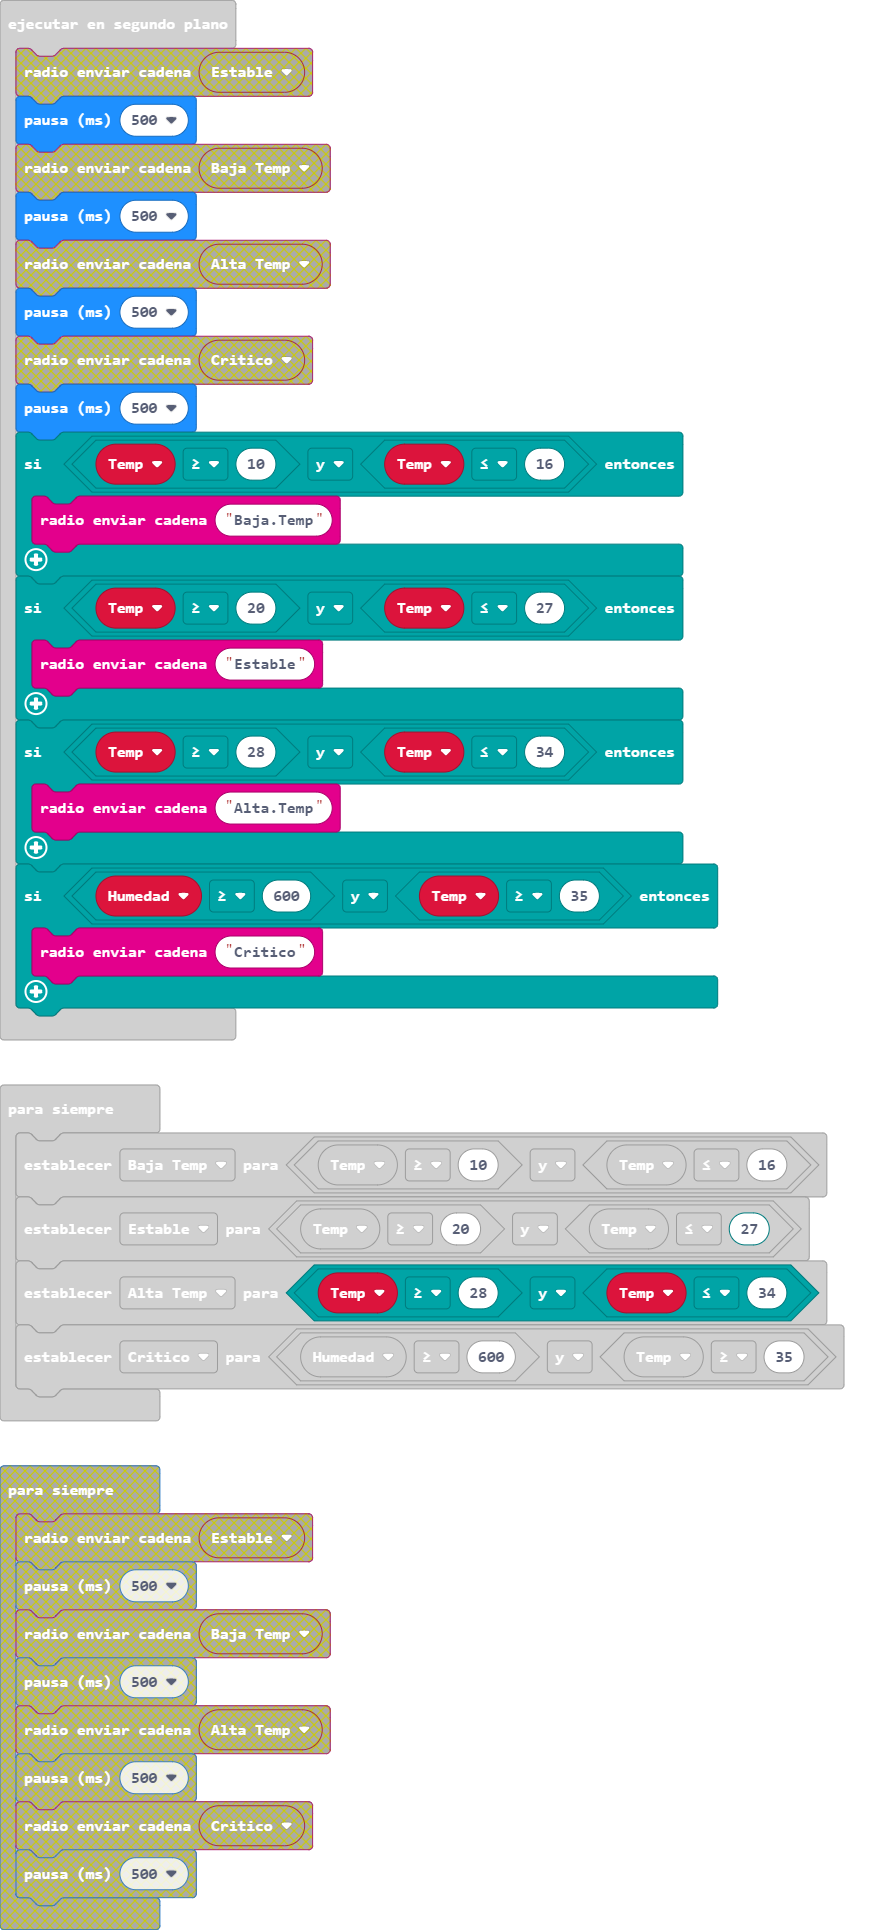
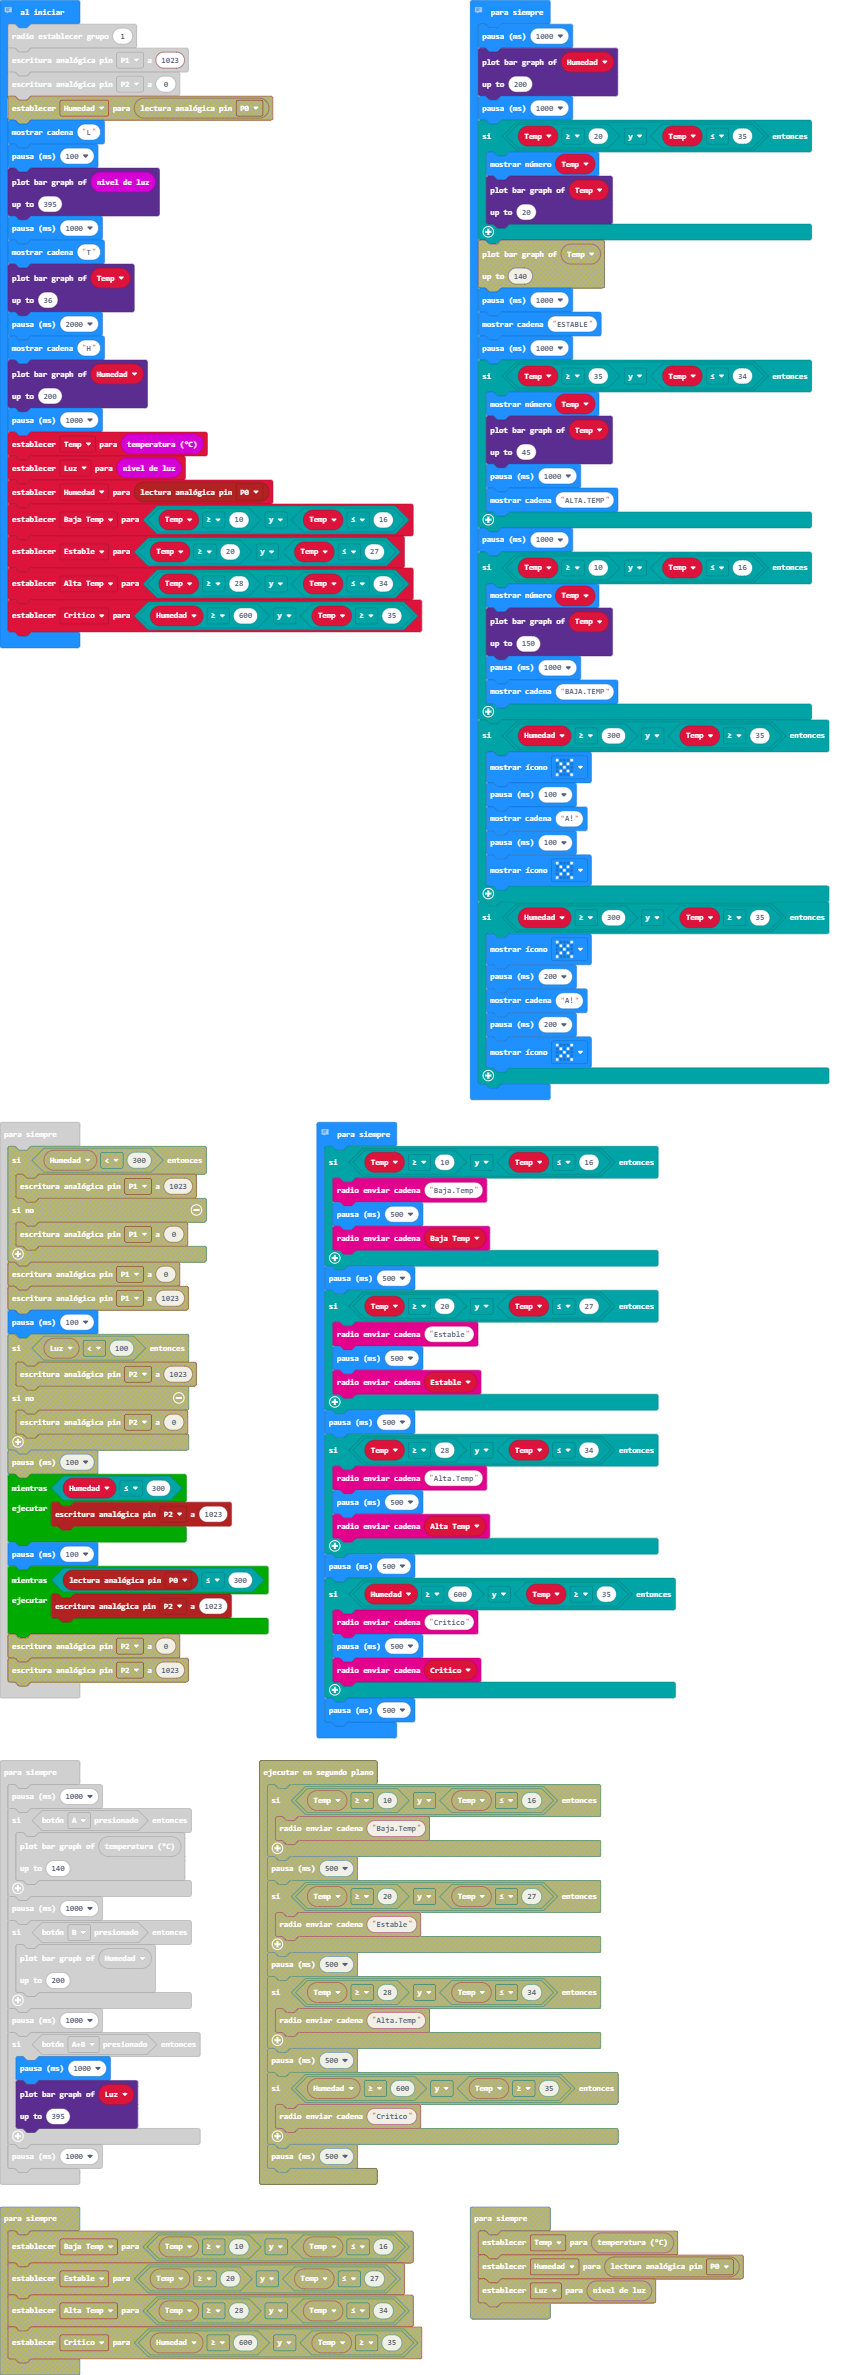
Actualizar main.blocks, main.ts

diff --git a/main.ts b/main.ts
@@ -1,24 +1,27 @@
-let Luz = 0
-let Critico = false
-let Alta_Temp = false
-let Estable = false
-let Baja_Temp = false
-let Temp = 0
+// Inicio
+// 
+// 
 radio.setGroup(1)
-pins.analogWritePin(AnalogPin.P1, 0)
+pins.analogWritePin(AnalogPin.P1, 1023)
 pins.analogWritePin(AnalogPin.P2, 0)
+let Temp = input.temperature()
+let Luz = input.lightLevel()
 let Humedad = pins.analogReadPin(AnalogPin.P0)
+let Baja_Temp = Temp >= 10 && Temp <= 16
+let Estable = Temp >= 20 && Temp <= 27
+let Alta_Temp = Temp >= 28 && Temp <= 34
+let Critico = Humedad >= 600 && Temp >= 35
 basic.showString("L")
 basic.pause(100)
 led.plotBarGraph(
 input.lightLevel(),
 395
 )
-basic.pause(5000)
+basic.pause(1000)
 basic.showString("T")
 led.plotBarGraph(
 Temp,
-40
+36
 )
 basic.pause(2000)
 basic.showString("H")
@@ -26,24 +29,28 @@ led.plotBarGraph(
 Humedad,
 200
 )
-basic.pause(5000)
+basic.pause(1000)
+// Controles
+// 
 basic.forever(function () {
-    Baja_Temp = Temp >= 10 && Temp <= 16
-    Estable = Temp >= 20 && Temp <= 27
-    Alta_Temp = Temp >= 28 && Temp <= 34
-    Critico = Humedad >= 600 && Temp >= 35
-})
-basic.forever(function () {
+    basic.pause(1000)
+    led.plotBarGraph(
+    Humedad,
+    200
+    )
+    basic.pause(1000)
     if (Temp >= 20 && Temp <= 35) {
+        basic.showNumber(Temp)
         led.plotBarGraph(
         Temp,
-        140
+        20
         )
-        basic.pause(5000)
+        basic.pause(1000)
         basic.showString("ESTABLE")
     }
-    basic.pause(5000)
+    basic.pause(1000)
     if (Temp >= 35 && Temp <= 34) {
+        basic.showNumber(Temp)
         led.plotBarGraph(
         Temp,
         45
@@ -53,11 +60,12 @@ basic.forever(function () {
     }
     basic.pause(1000)
     if (Temp >= 10 && Temp <= 16) {
+        basic.showNumber(Temp)
         led.plotBarGraph(
         Temp,
         150
         )
-        basic.pause(2000)
+        basic.pause(1000)
         basic.showString("BAJA.TEMP")
     }
     if (Humedad >= 300 && Temp >= 35) {
@@ -76,9 +84,42 @@ basic.forever(function () {
     }
 })
 basic.forever(function () {
-    Temp = input.temperature()
-    Humedad = pins.analogReadPin(AnalogPin.P0)
-    Luz = input.lightLevel()
+    while (Humedad <= 300) {
+        pins.analogWritePin(AnalogPin.P2, 1023)
+    }
+    basic.pause(100)
+    while (pins.analogReadPin(AnalogPin.P0) <= 300) {
+        pins.analogWritePin(AnalogPin.P2, 1023)
+    }
+    basic.pause(100)
+})
+// Transmicion
+// 
+basic.forever(function () {
+    if (Temp >= 10 && Temp <= 16) {
+        radio.sendString("Baja.Temp")
+        basic.pause(500)
+        radio.sendString("" + (Baja_Temp))
+    }
+    basic.pause(500)
+    if (Temp >= 20 && Temp <= 27) {
+        radio.sendString("Estable")
+        basic.pause(500)
+        radio.sendString("" + (Estable))
+    }
+    basic.pause(500)
+    if (Temp >= 28 && Temp <= 34) {
+        radio.sendString("Alta.Temp")
+        basic.pause(500)
+        radio.sendString("" + (Alta_Temp))
+    }
+    basic.pause(500)
+    if (Humedad >= 600 && Temp >= 35) {
+        radio.sendString("Critico")
+        basic.pause(500)
+        radio.sendString("" + (Critico))
+    }
+    basic.pause(500)
 })
 basic.forever(function () {
     basic.pause(1000)
@@ -97,42 +138,11 @@ basic.forever(function () {
     }
     basic.pause(1000)
     if (input.buttonIsPressed(Button.AB)) {
+        basic.pause(1000)
         led.plotBarGraph(
         Luz,
         395
         )
     }
     basic.pause(1000)
-})
-basic.forever(function () {
-    if (Humedad < 300) {
-        pins.analogWritePin(AnalogPin.P1, 1023)
-    } else {
-        pins.analogWritePin(AnalogPin.P1, 0)
-    }
-    basic.pause(100)
-    if (Luz < 100) {
-        pins.analogWritePin(AnalogPin.P2, 1023)
-    } else {
-        pins.analogWritePin(AnalogPin.P2, 0)
-    }
-    basic.pause(100)
-})
-control.inBackground(function () {
-    if (Temp >= 10 && Temp <= 16) {
-        radio.sendString("Baja.Temp")
-    }
-    basic.pause(500)
-    if (Temp >= 20 && Temp <= 27) {
-        radio.sendString("Estable")
-    }
-    basic.pause(500)
-    if (Temp >= 28 && Temp <= 34) {
-        radio.sendString("Alta.Temp")
-    }
-    basic.pause(500)
-    if (Humedad >= 600 && Temp >= 35) {
-        radio.sendString("Critico")
-    }
-    basic.pause(500)
 })
